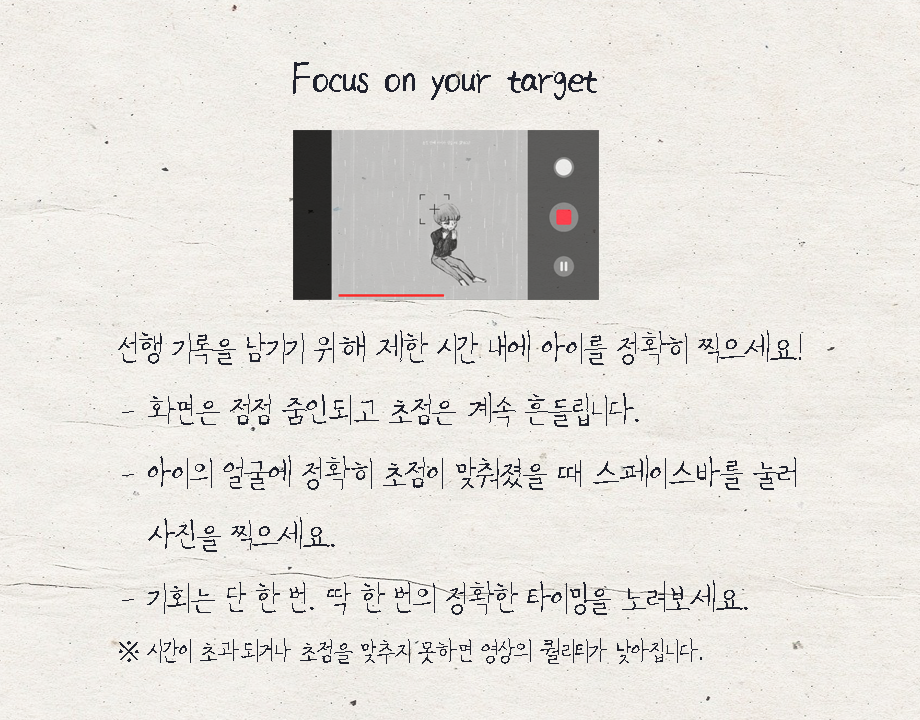
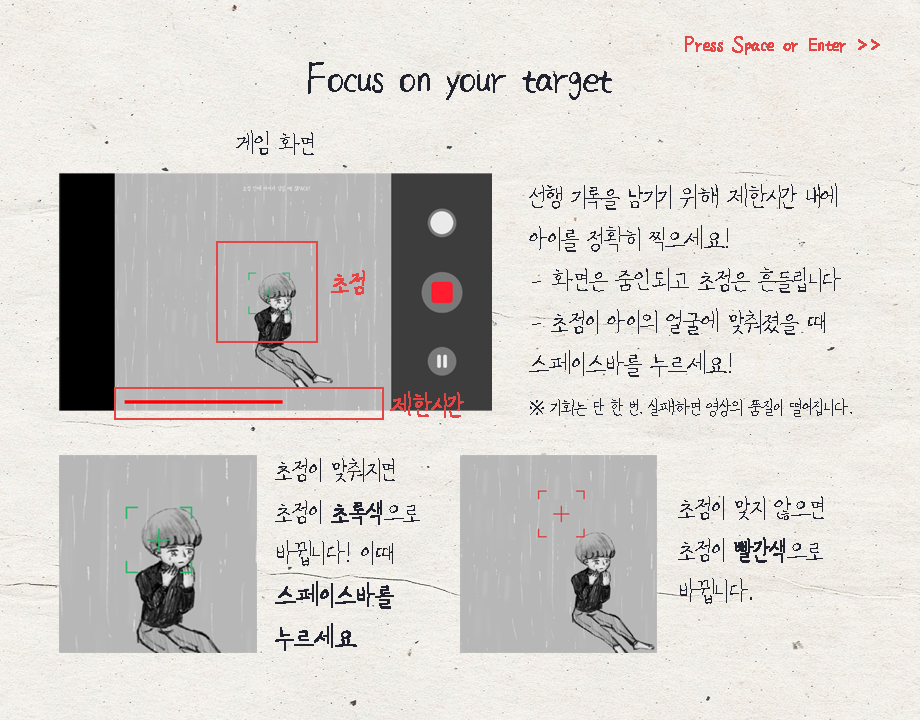
25/12/16 02:36
에셋 추가
엔딩 일부 씬 배경 이미지 적용
미니게임 난이도 하향(시간 조정)

diff --git a/js/minigames.js b/js/minigames.js
@@ -59,10 +59,8 @@ function initMinigame() {
   else if (minigameType === "FISHING") {
   mgTimer = 900;       // 제한시간 (약 15초)
   mgMaxTimer = 900;
-  
-  // 낚시 게임 변수 세팅
-    mgTimer = 900;
-    mgMaxTimer = 900;
+    mgTimer = 1100;       // 제한시간 (약 15초)
+    mgMaxTimer = 1100;
     
     // 플레이어 바 시작 세팅
     mgFish.barY = 600;  
@@ -229,7 +227,7 @@ function checkFocusSuccess() {
 function playCrossy() {
   fill(50); rect(480,360,960,720); stroke(255,200,0); strokeWeight(5); line(0,380,960,380); noStroke();
   imageMode(CENTER);
-  image(imgChild,480,60,160,100); fill(255); text("구하세요!",560,60);
+  image(imgChild,480,60,160,100); fill(255); textSize(20); text("구하세요!",560,60);
   
   for(let car of mgCrossy.cars){
     car.x += car.speed;
@@ -500,7 +498,7 @@ image(imgFishingBg,480,360,960,720)
   // [수정] 벽 튕기기 (Reflection) 로직 적용
   // -------------------------------------------------
   
-  mgFish.targetTime += 0.0073; 
+  mgFish.targetTime += 0.0072; 
   
   let currentNoise = noise(mgFish.targetTime);
   let diff = currentNoise - mgFish.startNoiseVal;

diff --git a/sketch.js b/sketch.js
@@ -63,9 +63,10 @@ function preload() {
   imgInstaIcon = loadImage("assets/instaicon.png");
   
   imgFocusRule_Ep1 = loadImage('assets/rule_focus_ep1.png'); 
-  imgFocusRule_Ep2 = loadImage('assets/rule_focus_ep2.png'); 
+  imgFocusRule_Ep2 = loadImage('assets/rule_focus_ep2.png');
+  imgFocusRule_Ep3 = loadImage('assets/rule_focus_ep3.png')
   imgCrossyRule = loadImage('assets/rule_cross_the_street.png');
-  //imgIceRule2 = loadImage('assets/AED_rule_page2.png');
+  imgIceRule2 = loadImage('assets/AED_rule_page2.png');
   imgIceRule = loadImage('assets/AED_rule.png');
   //imgFishingRule = loadImage('assets/rule_fishing.png');
 

diff --git a/js/story.js b/js/story.js
@@ -83,6 +83,9 @@ function startEndingSequence() {
   endingType = "normal";
   if (scoreLikes > 11000 || scoreHidden < 1) endingType = "bad";
   else if (scoreHidden >= 2 && scoreLikes < 10000) endingType = "good";
+  else{
+    endingType = "normal"
+  }
   
   // 2. json에서 해당 엔딩 시나리오 가져오기
   // (만약 json 로딩 실패시를 대비해 빈 배열 처리)

diff --git a/js/ui.js b/js/ui.js
@@ -58,8 +58,9 @@ function drawRuleBook() {
       c = imgIceRule2;  // 두 번째 페이지 (없으면 imgIceRule이 뜰 수 있게 예외처리 가능)
     }
   }
-  else if(minigameType==="FISHING") c=imgFishingRule;
-  
+  else if(minigameType==="FISHING"){
+     c=imgFishingRule;
+  }
   if (c) {
     image(c, 480, 360, 960, 720);
   } else { 
